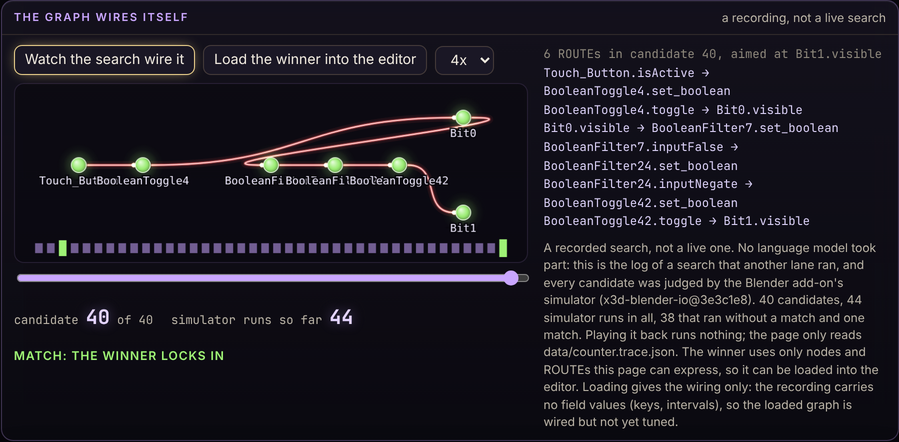
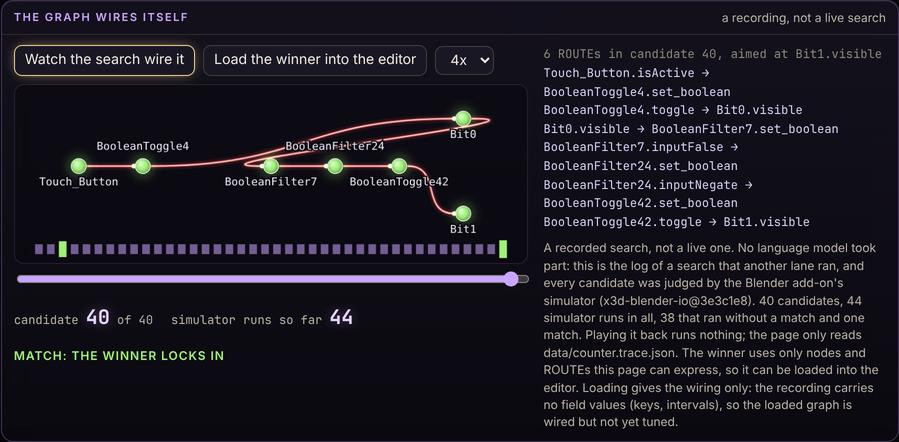
Wire Lab v3: visual and layout fixes
Search panel labels no longer overlap (placed on four rows, measured by a page test). Editor: rows aligned across
columns, wires that run backwards go through the channel under their row, every wired node is fitted inside the
canvas (page-tested for all worlds and the closed-loop graphs). Worlds: smoother lighting without banding, a
seamless background, soft shadows. Layout: the Blender lane and the node inspector move into the left column.

diff --git a/docs/demos/wire-lab/v3/index.html b/docs/demos/wire-lab/v3/index.html
@@ -171,6 +171,7 @@ pre .k{color:var(--amber)} pre .c{color:#847e72} pre .s{color:#9ef275}
 .sc .cap{color:var(--dim);font-size:12px;margin:8px 0 0;line-height:1.45}
 #scRoutes{font:12px var(--num);line-height:1.55;color:#d9cff5}#scRoutes div{overflow-wrap:anywhere}
 #scVerdict{font:600 12px var(--sans);letter-spacing:.08em;text-transform:uppercase}#scVerdict.match{color:var(--green)}#scVerdict.ran{color:var(--lilac)}
+.left .bl .body{grid-template-columns:1fr}
 .bl .cap{color:var(--dim);font-size:12px;margin:8px 0 0;line-height:1.45}
 .bl .acts{display:flex;gap:8px;flex-wrap:wrap;margin-bottom:8px;align-items:center}
 .bl .odo2{display:flex;gap:18px;font:12px var(--num);color:var(--dim);margin-bottom:6px}
@@ -225,7 +226,7 @@ footer code,p code{font-family:var(--num);color:#d8d1c4}
   <div class="odo"><div class="k">Field types seen</div><div class="chips" id="oTypes"></div><div class="s" id="oWhen"></div></div>
 </section>
 <main>
-  <section class="col">
+  <section class="col left">
     <div class="card glass">
       <div id="stage">
         <x3d-canvas id="x3d" contextMenu="false" notifications="false" splashScreen="false" timings="false"></x3d-canvas>
@@ -241,6 +242,25 @@ footer code,p code{font-family:var(--num);color:#d8d1c4}
     <div class="card glass">
       <h2>Challenges <span class="r" id="score"></span></h2>
       <div class="pad" id="challenges"></div>
+    </div>
+    <div class="card glass bl hudonly" id="bl">
+      <h2>Blender lane <span class="r" id="blWho"></span></h2>
+      <div class="body">
+        <div>
+          <div class="acts"><button id="blReplay">Replay the Blender recording</button><button id="blRun">Run the same stimulus in X_ITE</button><button id="blCompare">Compare now</button>
+            <select id="blSpeed" aria-label="Replay speed"><option value="1">1x</option><option value="4">4x</option></select></div>
+          <div class="odo2"><span><b id="blCount">0</b> / <span id="blTotal">0</span> replayed</span><span id="blClock"></span></div>
+          <div id="blstream"></div>
+        </div>
+        <div>
+          <table id="blTable"><thead><tr><th>ROUTE</th><th>Blender</th><th>X_ITE</th><th>diff</th><th title="rank of the ROUTE's first event: Blender / X_ITE">1st rank</th></tr></thead><tbody></tbody></table>
+          <p class="cap" id="blNote"></p>
+        </div>
+      </div>
+    </div>
+    <div class="card glass">
+      <h2>Selected node</h2>
+      <div class="pad" id="inspector"><span style="color:var(--mute)">Click a node to see and change its fields.</span></div>
     </div>
   </section>
   <section class="col">
@@ -270,21 +290,6 @@ footer code,p code{font-family:var(--num);color:#d8d1c4}
         <div id="live"></div>
       </div>
     </div>
-    <div class="card glass bl hudonly" id="bl">
-      <h2>Blender lane <span class="r" id="blWho"></span></h2>
-      <div class="body">
-        <div>
-          <div class="acts"><button id="blReplay">Replay the Blender recording</button><button id="blRun">Run the same stimulus in X_ITE</button><button id="blCompare">Compare now</button>
-            <select id="blSpeed" aria-label="Replay speed"><option value="1">1x</option><option value="4">4x</option></select></div>
-          <div class="odo2"><span><b id="blCount">0</b> / <span id="blTotal">0</span> replayed</span><span id="blClock"></span></div>
-          <div id="blstream"></div>
-        </div>
-        <div>
-          <table id="blTable"><thead><tr><th>ROUTE</th><th>Blender</th><th>X_ITE</th><th>diff</th><th title="rank of the ROUTE's first event: Blender / X_ITE">1st rank</th></tr></thead><tbody></tbody></table>
-          <p class="cap" id="blNote"></p>
-        </div>
-      </div>
-    </div>
     <div class="card glass sc hudonly" id="sc" hidden>
       <h2>The graph wires itself <span class="r">a recording, not a live search</span></h2>
       <div class="body">
@@ -303,10 +308,6 @@ footer code,p code{font-family:var(--num);color:#d8d1c4}
           <button data-tab="script" class="on">Script</button><button data-tab="x3d">X3D</button><button data-tab="sentences">Sentences</button><button data-tab="builder">Builder script</button>
         </div>
         <pre id="code"></pre>
-    </div>
-    <div class="card glass">
-      <h2>Selected node</h2>
-      <div class="pad" id="inspector"><span style="color:var(--mute)">Click a node to see and change its fields.</span></div>
     </div>
   </section>
 </main>
@@ -400,8 +401,8 @@ function draw() {
       const cy = HEAD + 14 + i * ROW, colour = COLOURS[r[1]] || '#888';
       const canIn = r[2] !== 'outputOnly', canOut = r[2] !== 'inputOnly';
       el('text', { class: 'f', x: canIn ? 16 : W - 16, y: cy + 4, 'text-anchor': canIn ? 'start' : 'end' }, g).textContent = r[0];
-      if (canIn) { const c = el('circle', { class: 'sock in', cx: 0, cy, r: 6.5, fill: colour, 'data-node': n.id, 'data-field': r[0], 'data-dir': 'in', 'data-type': r[1] }, g); el('title', {}, c).textContent = `${r[0]} takes ${PLAIN[r[1]] || r[1]} (${r[1]})`; sockets.set(`${n.id}|${r[0]}|in`, { x, y: y + cy, type: r[1] }); }
-      if (canOut) { const c = el('circle', { class: 'sock out', cx: W, cy, r: 6.5, fill: colour, 'data-node': n.id, 'data-field': r[0], 'data-dir': 'out', 'data-type': r[1] }, g); el('title', {}, c).textContent = `${r[0]} sends ${PLAIN[r[1]] || r[1]} (${r[1]})`; sockets.set(`${n.id}|${r[0]}|out`, { x: x + W, y: y + cy, type: r[1] }); }
+      if (canIn) { const c = el('circle', { class: 'sock in', cx: 0, cy, r: 6.5, fill: colour, 'data-node': n.id, 'data-field': r[0], 'data-dir': 'in', 'data-type': r[1] }, g); el('title', {}, c).textContent = `${r[0]} takes ${PLAIN[r[1]] || r[1]} (${r[1]})`; sockets.set(`${n.id}|${r[0]}|in`, { x, y: y + cy, type: r[1], node: n.id }); }
+      if (canOut) { const c = el('circle', { class: 'sock out', cx: W, cy, r: 6.5, fill: colour, 'data-node': n.id, 'data-field': r[0], 'data-dir': 'out', 'data-type': r[1] }, g); el('title', {}, c).textContent = `${r[0]} sends ${PLAIN[r[1]] || r[1]} (${r[1]})`; sockets.set(`${n.id}|${r[0]}|out`, { x: x + W, y: y + cy, type: r[1], node: n.id }); }
     });
     const more = el('text', { class: 'more', x: W / 2, y: h - 7, 'text-anchor': 'middle', 'data-more': n.id }, g);
     more.textContent = expanded.has(n.id) ? 'show fewer fields' : hidden > 0 ? `+ ${hidden} more fields` : '';
@@ -425,8 +426,17 @@ function draw() {
   updateWires(); fxDirty = true;
 }
 const dOf = (a, b) => Math.max(50, Math.abs(b.x - a.x) * .5);
-const curve = (a, b) => { const d = dOf(a, b); return `M${a.x} ${a.y} C${a.x + d} ${a.y} ${b.x - d} ${b.y} ${b.x} ${b.y}`; };
-const bez = (a, b, u) => { const d = dOf(a, b), v = 1 - u, c1 = [a.x + d, a.y], c2 = [b.x - d, b.y]; return [v * v * v * a.x + 3 * v * v * u * c1[0] + 3 * v * u * u * c2[0] + u * u * u * b.x, v * v * v * a.y + 3 * v * v * u * c1[1] + 3 * v * u * u * c2[1] + u * u * u * b.y]; };
+// A wire is one cubic, or two when it runs backwards (the target is left of the source): out to the right, along the channel under
+// the source's row, then into the target from the left, so it never crosses a node body.
+function segs(a, b) {
+  if (b.x >= a.x + 24) { const d = dOf(a, b); return [[[a.x, a.y], [a.x + d, a.y], [b.x - d, b.y], [b.x, b.y]]]; }
+  const A = nodeBox.get(a.node), rowBottom = bx => { let m = bx ? bx.y + bx.h : 0; for (const o of nodeBox.values()) if (bx && Math.abs(o.y - bx.y) < 30) m = Math.max(m, o.y + o.h); return m; };
+  const B = nodeBox.get(b.node), ym = (b.y > a.y + 40 && A ? rowBottom(A) : Math.max(A ? rowBottom(A) : a.y, B ? rowBottom(B) : b.y)) + 15, xr = a.x + 46, xl = b.x - 46, mx = (xr + xl) / 2;
+  return [[[a.x, a.y], [xr + 26, a.y], [xr + 26, ym], [mx, ym]], [[mx, ym], [xl - 26, ym], [xl - 26, b.y], [b.x, b.y]]];
+}
+const curve = (a, b) => 'M' + segs(a, b).map((s, i) => (i ? '' : `${s[0][0]} ${s[0][1]} `) + `C${s[1][0]} ${s[1][1]} ${s[2][0]} ${s[2][1]} ${s[3][0]} ${s[3][1]}`).join(' ');
+const bez = (a, b, u) => { const S = segs(a, b), i = Math.min(S.length - 1, Math.floor(u * S.length)), lu = u * S.length - i, [p0, c1, c2, p1] = S[i], v = 1 - lu;
+  return [v * v * v * p0[0] + 3 * v * v * lu * c1[0] + 3 * v * lu * lu * c2[0] + lu * lu * lu * p1[0], v * v * v * p0[1] + 3 * v * v * lu * c1[1] + 3 * v * lu * lu * c2[1] + lu * lu * lu * p1[1]]; };
 // thickness and count badge of each wire: what X_ITE has really sent on it
 function updateWires() {
   for (const [index, e] of wireEls) {
@@ -441,12 +451,29 @@ function fit() {
   const box = $('graph').getBoundingClientRect(), wiredIds = new Set(graph.routes.flatMap(r => [r[0], r[2]]));
   const extent = only => { let x0 = 1e9, y0 = 1e9, x1 = -1e9, y1 = -1e9;
     for (const n of graph.nodes.values()) { if (only && wiredIds.size && !wiredIds.has(n.id)) continue; const [x, y] = [n.position?.[0] || 0, -(n.position?.[1] || 0)]; x0 = Math.min(x0, x); y0 = Math.min(y0, y); x1 = Math.max(x1, x + W); y1 = Math.max(y1, y + HEAD + shown(n).length * ROW + 20); }
+    const back = graph.routes.some(r => (graph.nodes.get(r[2])?.position?.[0] ?? 1e9) <= (graph.nodes.get(r[0])?.position?.[0] ?? -1e9)); if (back) { x0 -= 70; x1 += 70; }      // room for wires that loop back round a row
     return { x0, y0, x1, y1, k: Math.min(1.15, (box.width - 60) / (x1 - x0), (box.height - 50) / (y1 - y0)) }; };
   // show the unwired scene parts too while the text stays readable (scale 0.8 or more); otherwise fit the wired nodes and let the rest wait below
   let ex = extent(false); if (ex.k < .8) ex = extent(true);
   const { x0, y0, x1 } = ex; view.k = Math.max(0.5, ex.k);
   view.x = 30 - x0 * view.k + Math.max(0, (box.width - 60 - (x1 - x0) * view.k) / 2); view.y = 20 - y0 * view.k;
   draw();
+}
+
+
+// layout checks the tests call: no wire passes through a node it does not belong to; every wired node is inside the canvas
+function wireCheck() {
+  const bad = [];
+  graph.routes.forEach((r, i) => { const path = wirePaths.get(i); if (!path) return;
+    for (let s = 0; s <= path.len; s += 6) { const p = pointAt(path, s);
+      for (const [id, b] of nodeBox) { if (id === r[0] || id === r[2]) continue; if (p[0] > b.x + 2 && p[0] < b.x + b.w - 2 && p[1] > b.y + 2 && p[1] < b.y + b.h - 2) { bad.push(`${r[0]}.${r[1]} -> ${r[2]}.${r[3]} crosses ${id} at ${Math.round(p[0])},${Math.round(p[1])} box ${Math.round(b.x)},${Math.round(b.y)},${b.w},${b.h}`); s = path.len; break; } } } });
+  return bad;
+}
+function nodesOutside() {
+  const box = $('graph').getBoundingClientRect(), wired = new Set(graph.routes.flatMap(r => [r[0], r[2]])), out = [];
+  for (const [id, b] of nodeBox) { if (!wired.has(id)) continue; const x0 = view.x + b.x * view.k, x1 = view.x + (b.x + b.w) * view.k, y0 = view.y + b.y * view.k, y1 = view.y + (b.y + b.h) * view.k;
+    if (x0 < 0 || y0 < 0 || x1 > box.width || y1 > box.height) out.push(id); }
+  return out;
 }
 
 // ---- code views --------------------------------------------------------------------------------------------------
@@ -565,9 +592,11 @@ function arrange() {
   for (const n of graph.nodes.values()) if (wired.has(n.id)) { const c = pos[n.id][0], band = Math.floor(c / PER); ((bands[band] ||= {})[c % PER] ||= []).push(n); }
   let top = 0;
   for (const band of Object.keys(bands).map(Number).sort((a, b) => a - b)) {
-    let tall = 0;
-    for (const [c, nodes] of Object.entries(bands[band])) { let y = top; for (const n of nodes) { n.position = [c * PITCH, -y]; y += height(n); } tall = Math.max(tall, y - top); }
-    top += tall + 26;
+    // rows are aligned across the columns of a band, so the channel between two rows is clear for wires that run backwards
+    const cols = Object.entries(bands[band]), nrows = Math.max(...cols.map(([, ns]) => ns.length)), rowH = [...Array(nrows)].map((_, k) => Math.max(0, ...cols.map(([, ns]) => ns[k] ? height(ns[k]) : 0)));
+    const rowY = []; let y = top; rowH.forEach((hh, k) => { rowY[k] = y; y += hh + 16; });
+    for (const [c, ns] of cols) ns.forEach((n, k) => { n.position = [c * PITCH, -rowY[k]]; });
+    top = y + 10;
   }
   let i = 0;
   let rowTop = top + 30, rowTall = 0;      // scene parts that are not wired yet: a tidy bench row directly under the wired nodes
@@ -684,7 +713,7 @@ if (SEARCH && SEARCH.schema === 'x3d.selfcode.trace/1') {
     graph = g; selected = null; expanded.clear(); lastSolved = new Set(); arrange(); wheel.env.graph = graph; changed(); fit();
   });
   new ResizeObserver(() => search.resize()).observe($('scCanvas').parentElement); search.resize();
-  window.__search = { search, trace: SEARCH, plan, shown: () => search.shown.slice(), k: () => search.k, drawnIds: () => search.drawnIds() };
+  window.__search = { labels: () => search.labelBoxes(), search, trace: SEARCH, plan, shown: () => search.shown.slice(), k: () => search.k, drawnIds: () => search.drawnIds() };
 }
 
 async function load() {
@@ -704,7 +733,7 @@ async function load() {
       } catch (e) { console.warn('no callback for', r, e.message); }
     });
     tapsOn = true;
-    window.__wirelab = { scene, graph, world, loaded: mine, changed, flow, ghost, hub, wheel, trace, taps: () => taps.length, view: () => viewMode, compare: makeCompare, cycles: () => components(graph), replay: () => replay };
+    window.__wirelab = { wireCheck, nodesOutside, scene, graph, world, loaded: mine, changed, flow, ghost, hub, wheel, trace, taps: () => taps.length, view: () => viewMode, compare: makeCompare, cycles: () => components(graph), replay: () => replay };
     status.textContent = `X_ITE ${browser.version} · ${taps.length} of ${graph.routes.length} ROUTEs tapped`; status.className = '';
   } catch (e) { status.textContent = `X_ITE could not load the scene: ${e.message}`; status.className = 'bad'; }
 }

diff --git a/docs/demos/wire-lab/v3/search.js b/docs/demos/wire-lab/v3/search.js
@@ -57,6 +57,22 @@ export class Search {
     const routes = c.routes.map(r => { let t = '?'; try { t = this.cat.resolve(nodes.get(r[0]).type, r[1], 'out')[1]; } catch {} return { r, a: nodes.get(r[0]), b: nodes.get(r[2]), col: this.colours[t] || GREY, type: t }; });
     const m = { nodes: [...nodes.values()], routes, verdict: c.verdict }; this.models.set(i, m); return m;
   }
+  // Labels go on the first of four rows (below, above, further below, further above) where they touch no other label and stay inside.
+  placeLabels(ctx, list) {
+    const boxes = []; ctx.font = '11px ui-monospace, SFMono-Regular, Menlo, monospace'; ctx.textBaseline = 'top';
+    const hit = (p, q) => !(p.x1 < q.x0 || p.x0 > q.x1 || p.y1 < q.y0 || p.y0 > q.y1);
+    for (const { nd, a } of list.slice().sort((p, q) => p.nd.x - q.nd.x)) {
+      let name = nd.id, pick = null;
+      for (const pass of [0, 1]) { if (pass) name = nd.id.length > 9 ? nd.id.slice(0, 8) + '…' : nd.id;
+        const w = ctx.measureText(name).width + 4, x0 = Math.max(4, Math.min(this.W - 4 - w, nd.x - w / 2));
+        for (const dy of [11, -25, 27, -41]) { const q = { x0, x1: x0 + w, y0: nd.y + dy, y1: nd.y + dy + 14 }; if (q.y0 < 4 || q.y1 > this.H - 32 || boxes.some(p => hit(p, q))) continue; pick = { ...q, name, id: nd.id }; break; }
+        if (pick) break; }
+      if (!pick) { const w = ctx.measureText(name).width + 4; pick = { x0: nd.x - w / 2, x1: nd.x + w / 2, y0: nd.y + 11, y1: nd.y + 25, name, id: nd.id }; }
+      boxes.push(pick); ctx.textAlign = 'left'; ctx.lineWidth = 3; ctx.strokeStyle = 'rgba(9,8,14,.85)'; ctx.strokeText(pick.name, pick.x0 + 2, pick.y0); ctx.fillStyle = rgba('#f1ecff', Math.min(1, .45 + .55 * Math.min(1, a))); ctx.fillText(pick.name, pick.x0 + 2, pick.y0);
+    }
+    this.boxes = boxes;
+  }
+  labelBoxes() { return { boxes: (this.boxes || []).map(b => ({ id: b.id, x0: b.x0, y0: b.y0, x1: b.x1, y1: b.y1 })), W: this.W, H: this.H }; }
   drawnIds() { return this.k ? this.model(this.k).nodes.map(n => n.id) : []; }
   setStep(k, how = 'play') {
     k = Math.max(0, Math.min(this.n, k | 0));
@@ -104,6 +120,7 @@ export class Search {
         ctx.beginPath(); ctx.arc(x2, y2, 2.4, 0, 6.283); ctx.fillStyle = rgba(lift(q.col, .6), Math.min(1, a)); ctx.fill();
       }
       ctx.restore();
+      const labelOf = [];
       for (const nd of m.nodes) {
         const col = verdict === 'match' ? LOCK : nd.kind === 'scene' ? '#57dbf5' : nd.kind === 'sensor' ? '#e9cf8a' : GHOST;
         bloom(ctx, nd.x, nd.y, 22, col, Math.min(.9, .5 * a));
@@ -111,12 +128,9 @@ export class Search {
         g.addColorStop(0, rgba(lift(col, .7), Math.min(1, .35 + a))); g.addColorStop(.6, rgba(col, Math.min(1, .25 + .7 * a))); g.addColorStop(1, rgba(col, Math.min(1, .12 + .3 * a)));
         ctx.beginPath(); ctx.arc(nd.x, nd.y, 7.5, 0, 6.283); ctx.fillStyle = g; ctx.fill();
         ctx.lineWidth = 1; ctx.strokeStyle = rgba(lift(col, .75), Math.min(1, .4 + .5 * a)); ctx.stroke();
-        if (mul === 1) {
-          ctx.font = '11px ui-monospace, SFMono-Regular, Menlo, monospace'; ctx.textAlign = 'center'; ctx.textBaseline = 'top';
-          const label = nd.id.length > 15 ? nd.id.slice(0, 14) + '…' : nd.id; ctx.lineWidth = 3; ctx.strokeStyle = 'rgba(9,8,14,.85)'; ctx.strokeText(label, nd.x, nd.y + 11);
-          ctx.fillStyle = rgba('#f1ecff', Math.min(1, .45 + .55 * Math.min(1, a))); ctx.fillText(label, nd.x, nd.y + 11);
-        }
+        if (mul === 1) labelOf.push({ nd, a });
       }
+      if (mul === 1) this.placeLabels(ctx, labelOf);
     };
     if (this.prev && !this.reduced) { const age = now - this.born + 0; drawModel(this.prev.k, now - this.prev.at + (now - this.born > 0 ? 0 : 0), this.trace.candidates[this.prev.k - 1].verdict, Math.max(0, .22 * (1 - Math.min(1, (now - this.born) / 500)))); }
     const c = this.cand();

diff --git a/docs/demos/wire-lab/v3/build/build_worlds.py b/docs/demos/wire-lab/v3/build/build_worlds.py
@@ -36,7 +36,7 @@ HEAD = """<?xml version="1.0" encoding="UTF-8"?>
   </head>
   <Scene>
     <NavigationInfo type='"NONE"' headlight="false"/>
-    <Background skyColor="0.02 0.018 0.032 0.032 0.028 0.055 0.07 0.06 0.1" skyAngle="0.9 1.57" groundColor="0.02 0.018 0.03 0.03 0.026 0.045" groundAngle="1.57"/>
+    <Background skyColor="0.015 0.014 0.026 0.03 0.027 0.05 0.07 0.06 0.1" skyAngle="0.9 1.57" groundColor="0.012 0.01 0.02 0.07 0.06 0.1" groundAngle="1.57"/>
 {body}  </Scene>
 </X3D>
 """
@@ -56,11 +56,11 @@ def shape(geometry, colour, *, name=None, emissive="0 0 0", rough=0.45, metal=0.
     return f"<Shape><Appearance>{material}</Appearance>{geometry}</Shape>"
 
 
-FLOOR = f'    <Transform translation="0 -0.05 0">{shape("<Box size=\"14 0.1 8\"/>", "0.03 0.034 0.06", rough=0.5, metal=0.2)}</Transform>\n'
-SUN = ('    <DirectionalLight direction="-0.4 -1 -0.6" color="1 0.93 0.82" intensity="1.7" shadows="true" shadowIntensity="0.55" shadowMapSize="1024"/>\n'
-       '    <SpotLight location="0 7 3" direction="0 -1 -0.3" color="1 0.9 0.75" intensity="7" radius="20" beamWidth="0.2" cutOffAngle="0.8"/>\n'      # key: warm, from above left
+FLOOR = f'    <Transform translation="0 -0.05 0">{shape("<Box size=\"14 0.1 8\"/>", "0.035 0.04 0.07", rough=0.9, metal=0.0)}</Transform>\n'
+SUN = ('    <DirectionalLight direction="-0.4 -1 -0.6" color="1 0.93 0.82" intensity="2.0" shadows="true" shadowIntensity="0.55" shadowMapSize="1024"/>\n'
+       '    <SpotLight location="0 6.5 3.5" direction="0 -1 -0.25" color="1 0.92 0.8" intensity="1.6" radius="24" beamWidth="0.9" cutOffAngle="1.25"/>\n'
        '    <DirectionalLight direction="0.7 -0.35 -0.5" color="0.45 0.6 1" intensity="0.9"/>\n'          # fill: cool, from the right
-       '    <DirectionalLight direction="0 -0.2 1" color="0.5 0.55 0.8" intensity="0.35"/>\n')            # rim: from behind the scene
+       '    <DirectionalLight direction="0 -0.2 1" color="0.6 0.7 1" intensity="0.55"/>\n')            # rim: from behind the scene
 
 # ---------------------------------------------------------------------------------------------------------------
 # World 1: the door

diff --git a/docs/demos/wire-lab/v3/README.md b/docs/demos/wire-lab/v3/README.md
@@ -56,7 +56,7 @@ caption "a pipeline, not yet a wheel". A hoop appears only when a visitor closes
    wired but not tuned: after a real click its timer and interpolator events are counted, but the door does not move.
 
 Also changed from v2: the three worlds' own look (`build/build_worlds.py`): a warm key light with a soft shadow, a cool fill, a
-rim light and a soft spot pool instead of the headlight, a sky graded to the page colour and a darker, slightly metallic floor.
+rim light and a broad soft spot instead of the headlight, a sky graded to the page colour and a darker, slightly metallic floor.
 Where a ROUTE sets `visible` (the counter's lamps, the follower's beacon) the lamp carries a soft halo of nested transparent
 unlit shells, so the halo shows exactly when real events say the lamp is lit. The door's lamp has no halo (nothing routes its
 visibility). Nodes, wires and ROUTEs are unchanged from v2. Their nodes, wires and ROUTEs are identical to
@@ -74,7 +74,7 @@ v2 (checked by comparing the graph JSON); the Blender round trip of v2's files i
 | Check | Tool | Result |
 |---|---|---|
 | Wiring rule, starter graphs, script view, a solved challenge (v2's checks unchanged) plus cycle finding (pipeline, ring, self ROUTE, two rings, cap) and the event accounting arithmetic | `node build/test_core.mjs` | 91 of 91 |
-| The page, real mouse events, headless Chromium with SwiftShader, X_ITE 16.7.1: v2's checks (the event tape check now reads the stream, same assertions) and v3's: 0 events and nothing drawn before a click; after a real click the counts equal the callbacks the test heard on its own listeners and the page's own log; an edit re-taps without double counting; the flywheel shows a hoop if and only if an independently computed cycle exists; H and F; an edit in one view is in the other; the Blender lane replays exactly the recording's count and its comparison column equals the page's callback log; the search replay shows exactly `candidates.length` steps, ends on the winner, shows the file's counts, and a loaded winner's counts equal independent callbacks; no page error and no console error | `node build/test_page.cjs` | 92 of 92 (receipt in `build/page-test-receipt.json`) |
+| The page, real mouse events, headless Chromium with SwiftShader, X_ITE 16.7.1: v2's checks (the event tape check now reads the stream, same assertions) and v3's: 0 events and nothing drawn before a click; after a real click the counts equal the callbacks the test heard on its own listeners and the page's own log; an edit re-taps without double counting; the flywheel shows a hoop if and only if an independently computed cycle exists; H and F; an edit in one view is in the other; the Blender lane replays exactly the recording's count and its comparison column equals the page's callback log; the search replay shows exactly `candidates.length` steps, ends on the winner, shows the file's counts, and a loaded winner's counts equal independent callbacks; no two node labels in the search panel overlap (measured boxes); in the editor every wired node is inside the canvas and no wire runs through a node that is not its own (starter graphs and the closed-loop graphs); no page error and no console error | `node build/test_page.cjs` | 105 of 105 (receipt in `build/page-test-receipt.json`) |
 | The recording | `python build/record_blender.py` | door 365 events, counter 33, snake 1,442; nothing unsimulated, no faults, nothing dropped |
 
 Not checked: a real GPU or any frame rate (software rendering only), a phone, touch input, any browser but headless
@@ -83,6 +83,8 @@ add-on's own Play panel in Blender (the trace is the simulator, not Blender's UI
 stimulus is recorded for it: the Clock drives it).
 
 ## Known gaps
+
+* The floor is a plain dark surface with soft shadows; I did not get a visible light pool without banding, so there is none. The follower's backward wire runs through the channel under its row and brushes the corner of its own target's title.
 
 * The recording is of the simulator on 1/60 s steps; X_ITE under software GL runs at a few frames per second, so continuous
   streams count differently (the door's 182 recorded fractions are about 30 live here). This is shown, not hidden.
